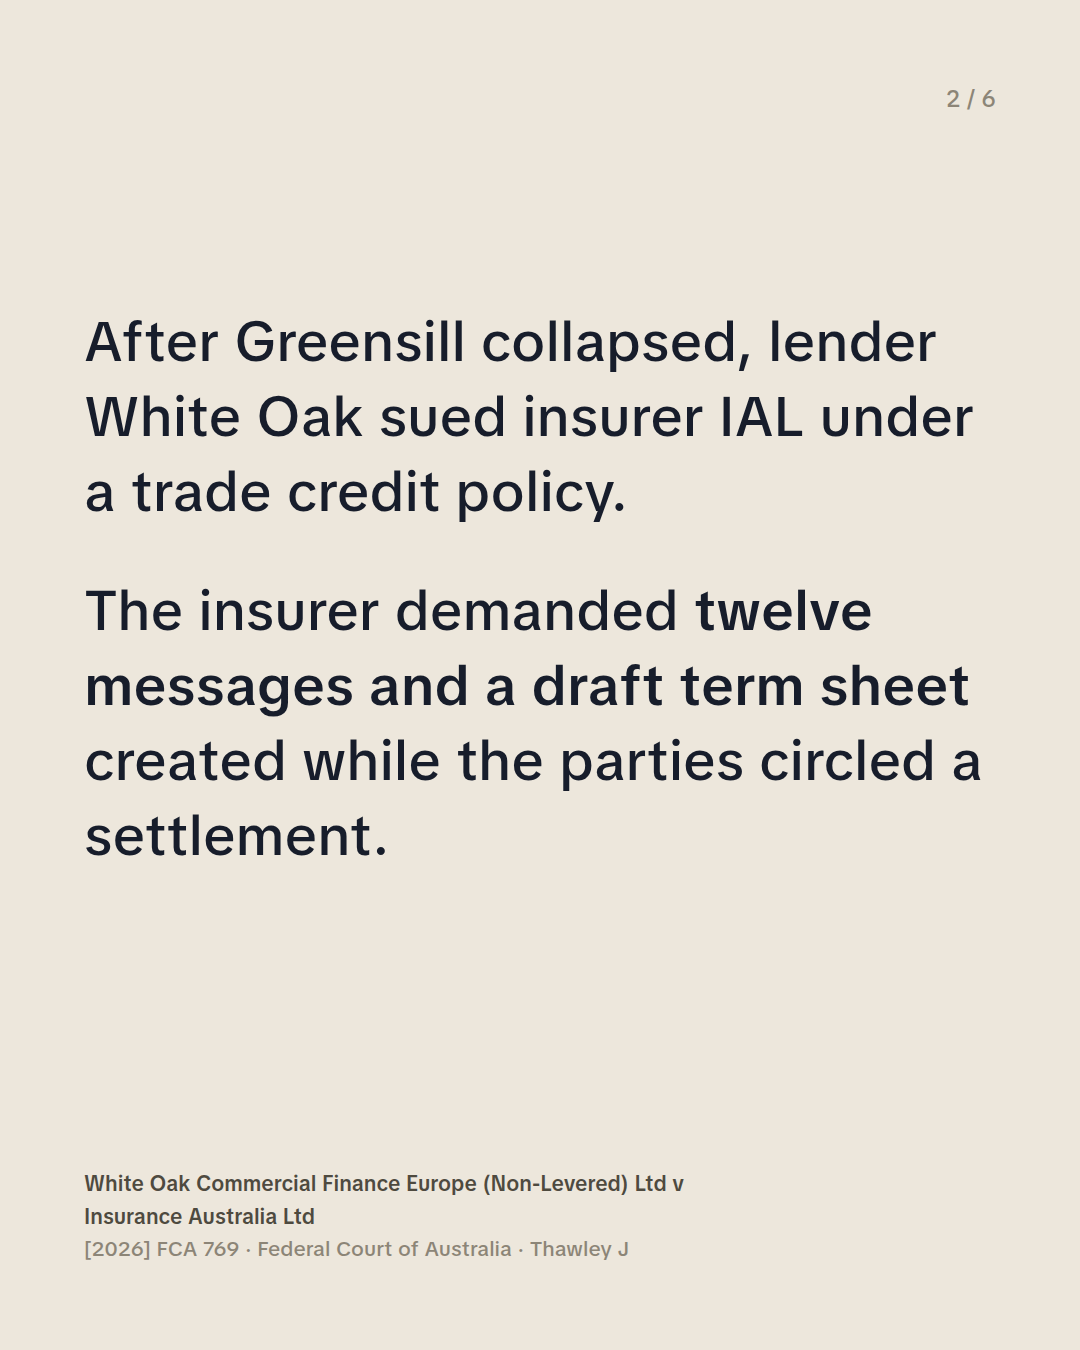
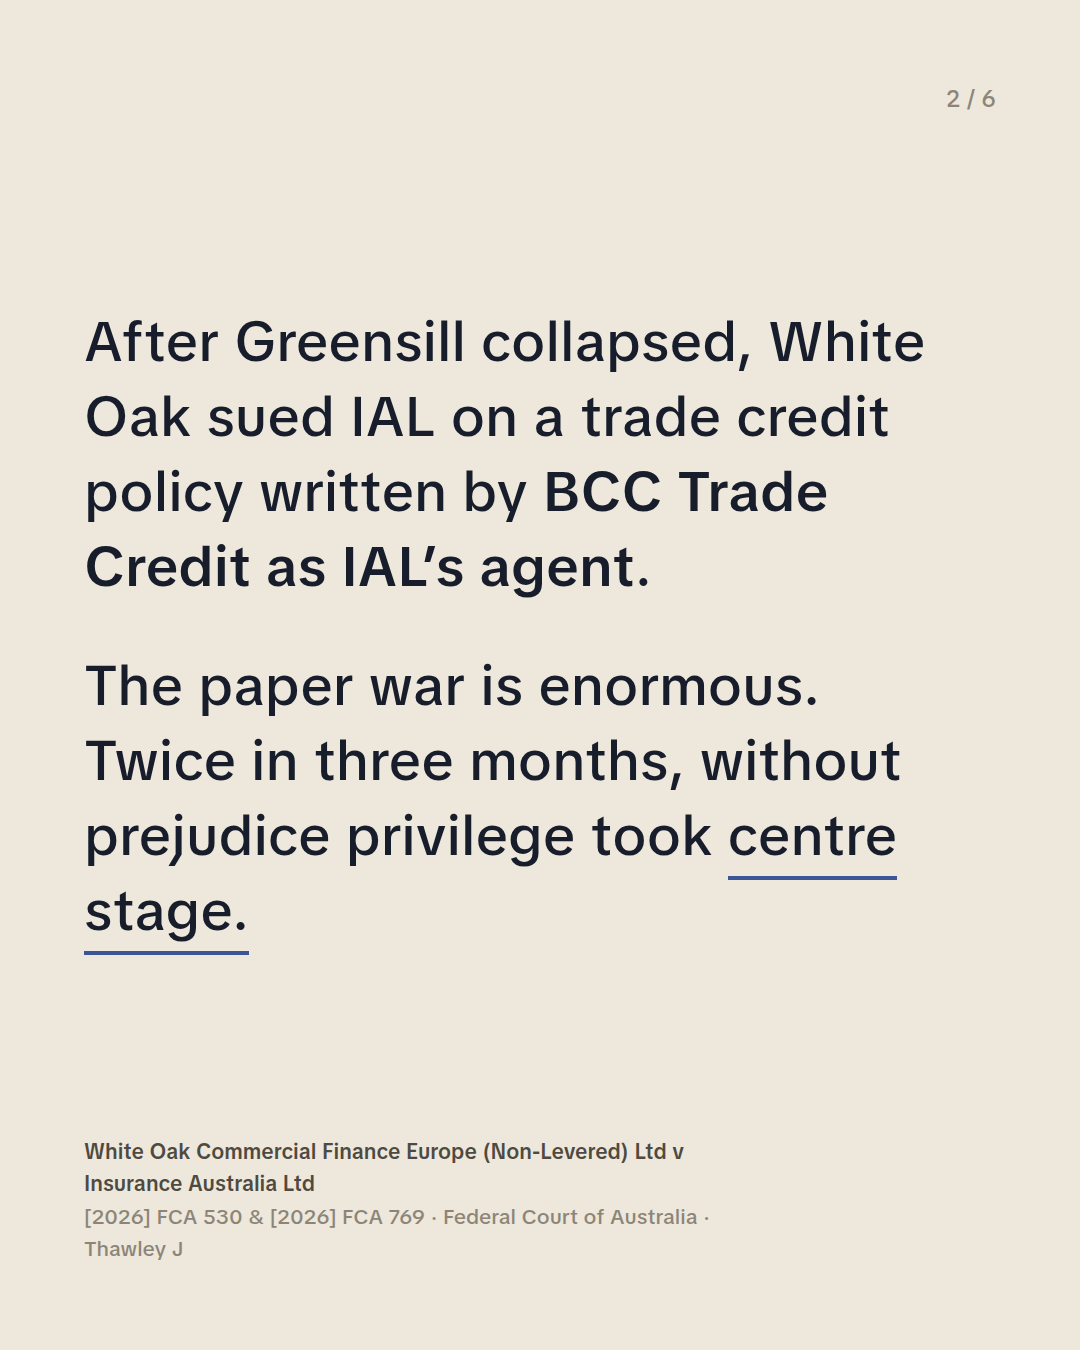
Triple-check corrections: fix White Oak holding attribution across all assets
Verification found the 'general approach / no element of compromise'
holding belongs to White Oak (No 3) [2026] FCA 530 (28 April), not
[2026] FCA 769, which was decided on relevance with privilege left
undecided. Carousel, Day in Court slide, captions, LinkedIn post and
brief all corrected to the two-decision frame. MacInnes and Elvin
details re-verified (breach of confidence claim confirmed; Foot & Thai
context noted in kit).

Claude-Session: https://claude.ai/code/session_01JRjeUUcoRT5GxuTf3inkfN

Changed region(s): [[0.0611, 0.2178, 0.9167, 0.7156], [0.0611, 0.84, 0.6417, 0.9333]]

diff --git a/tools/carousel/build.py b/tools/carousel/build.py
@@ -64,25 +64,27 @@ def slide(slug, kicker, n, statement, cite, size="md", dark=False, sub=None, swi
 K_A = "Daily Court Intelligence &middot; 30.07.26"
 K_B = "Daily Court Intelligence &middot; 30.07.26"
 K_F = "The Big Case File &middot; No. 001"
-CITE_A = '<b>White Oak Commercial Finance Europe (Non-Levered) Ltd v Insurance Australia Ltd</b><br>[2026] FCA 769 &middot; Federal Court of Australia &middot; Thawley J'
+CITE_A = '<b>White Oak Commercial Finance Europe (Non-Levered) Ltd v Insurance Australia Ltd</b><br>[2026] FCA 530 &amp; [2026] FCA 769 &middot; Federal Court of Australia &middot; Thawley J'
+CITE_A1 = '<b>White Oak v Insurance Australia (No 3)</b> &middot; [2026] FCA 530 &middot; 28 April 2026 &middot; Thawley J'
+CITE_A2 = '<b>White Oak v Insurance Australia (Without Prejudice Privilege)</b> &middot; [2026] FCA 769 &middot; Thawley J'
 CITE_B = '<b>Elvin v Fair Work Ombudsman</b> &middot; [2026] FCAFC 92<br>Full Court of the Federal Court &middot; Collier, McDonald &amp; Vandongen JJ'
 CITE_F = '<b>MacInnes v Wilson</b> &middot; Federal Court of Australia &middot; Raper J<br>22 July 2026 &middot; appeal filed'
 
 # ── Set A: White Oak ──
 slide("a1", K_A, 1,
-    'The Federal Court just ruled that labelling a message &ldquo;without prejudice&rdquo; protects&hellip; <span class="u">nothing, by itself.</span>',
+    '&ldquo;Without prejudice&rdquo; is not a <span class="u">magic spell.</span> Two rulings in the Greensill insurance wars just showed why.',
     CITE_A, size="lg", swipe="Swipe &rarr;")
 slide("a2", K_A, 2,
-    '<p>After Greensill collapsed, lender White Oak sued insurer IAL under a trade credit policy.</p><p>The insurer demanded <strong>twelve messages and a draft term sheet</strong> created while the parties circled a settlement.</p>',
+    '<p>After Greensill collapsed, White Oak sued IAL on a trade credit policy written by <strong>BCC Trade Credit as IAL&rsquo;s agent</strong>.</p><p>The paper war is enormous. Twice in three months, without prejudice privilege took <span class="u">centre stage.</span></p>',
     CITE_A)
 slide("a3", K_A, 3,
-    '<p>Settlement negotiations are privileged.</p><p>But are messages that merely <em>talk about</em> a dispute, with <span class="u">no offer and no admissions</span>, negotiations at all?</p>'.replace('<em>','<strong>').replace('</em>','</strong>'),
-    CITE_A)
+    '<p>Round one, April. White Oak challenged privilege claims by <strong>BCC and the Tokio Marine parties</strong> over settlement-talk documents.</p><p>Held: messages canvassing a &ldquo;general approach&rdquo;, with <span class="u">no element of compromise</span>, are not negotiations. No privilege.</p>',
+    CITE_A1)
 slide("a4", K_A, 4,
-    '<p>No, said the Court.</p><p>A &ldquo;general approach&rdquo; to a dispute, with <span class="u">no element of compromise</span>, is not a negotiation. No privilege. And irrelevant documents stay put anyway.</p>',
-    CITE_A)
+    '<p>Round two, published this week. IAL demanded twelve messages and a draft term sheet White Oak created while negotiating a resolution.</p><p>Held: <span class="u">not directly relevant.</span> Production refused. The privilege question never needed answering.</p>',
+    CITE_A2)
 slide("a5", K_A, 5,
-    '<p>Substantiate privilege document by document.</p><p>Argue relevance first.</p><p>And make negotiations <span class="u">look like negotiations.</span></p>',
+    '<p>Substantiate privilege document by document, with evidence.</p><p>Argue relevance first. It can end the fight early.</p><p>And make negotiations <span class="u">look like negotiations.</span></p>',
     CITE_A)
 slide("a6", K_A, 6,
     'Be honest: have you ever written &ldquo;without prejudice&rdquo; <span class="u">just in case?</span>',

diff --git a/tools/carousel/dayincourt.py b/tools/carousel/dayincourt.py
@@ -55,8 +55,8 @@ write("docket-1", f"""<div class="page">
 
 cases = [
  ("White Oak <span>v</span> Insurance Australia",
-  '<p>The Greensill coverage war, on foot since 2021. White Oak claims on a trade credit policy written by <b>BCC Trade Credit as agent for IAL</b>.</p><p>This round: IAL demanded twelve messages and a draft term sheet created while the parties circled a settlement. White Oak claimed without prejudice privilege.</p><p>Held: the messages canvassed only a &ldquo;general approach&rdquo;. No offer, no admissions, <b>no element of compromise</b>. Not a negotiation, no privilege. The rest failed on relevance.</p>',
-  '<b>Why it matters:</b> privilege is proven document by document. Labels do nothing.',
+  '<p>The Greensill coverage war, on foot since 2021. White Oak claims on a trade credit policy written by <b>BCC Trade Credit as agent for IAL</b>.</p><p>This round: IAL demanded twelve messages and a draft term sheet White Oak created while negotiating a possible resolution. White Oak said: without prejudice.</p><p>Held: the documents were <b>not directly relevant</b>. Production refused. The privilege question never needed answering.</p>',
+  '<b>Why it matters:</b> relevance is the first gate. And in April&rsquo;s round, [2026] FCA 530, labels without real compromise failed too.',
   '<b>[2026] FCA 769</b> &middot; Federal Court of Australia &middot; Thawley J'),
  ("Elvin <span>v</span> Fair Work Ombudsman",
   '<p>The FWO won underpayment findings over massage therapists classified under the <b>health professionals award</b>, plus accessorial findings against an individual personally involved.</p><p>On appeal: was the classification right? Were <b>Browne v Dunn</b> and <b>Jones v Dunkel</b> fairly applied against a self-represented litigant? And did the employer&rsquo;s DOCA bind the FWO as a &ldquo;creditor&rdquo;?</p><p>Appeal <b>allowed in part</b>. The FWO&rsquo;s cross-appeal dismissed.</p>',

diff --git a/reports/assets/2026-07-30/POSTING-KIT.md b/reports/assets/2026-07-30/POSTING-KIT.md
@@ -10,41 +10,41 @@ Two posts today. Upload the slides in filename order (a1→a6, b1→b6).
 
 "Without prejudice" ≠ invisibility cloak 🪄
 
-The Federal Court just refused privilege over settlement-adjacent messages in the Greensill insurance wars, because talking *about* a dispute isn't the same as negotiating to *end* one.
+Two rulings in the Greensill insurance wars just proved it.
 
-No offer. No admissions. No element of compromise. No privilege.
+April: messages canvassing a "general approach" to a dispute, with no offer and no element of compromise, are not negotiations at all. No privilege. ([2026] FCA 530)
+
+This week: the insurer demanded White Oak's settlement messages and draft term sheet. Production refused, not on privilege, but because the documents weren't relevant. The fight ended at the first gate. ([2026] FCA 769)
 
 Swipe for the breakdown 👉
 
-*White Oak Commercial Finance Europe (Non-Levered) Ltd v Insurance Australia Ltd (Without Prejudice Privilege)* [2026] FCA 769
+*White Oak Commercial Finance Europe (Non-Levered) Ltd v Insurance Australia Ltd*, [2026] FCA 530 and [2026] FCA 769
 
 General information only, not legal advice.
 
 #auslaw #litigation #insurancelaw #commerciallaw #lawstudent #legalpractice #lawyersofinstagram #melbournelawyer
 
-**Alt text:** Dark navy and gold carousel slides summarising the Federal Court's without prejudice privilege ruling in White Oak v Insurance Australia [2026] FCA 769.
+**Alt text:** Minimal cream and navy carousel summarising the Federal Court's without prejudice privilege rulings in the White Oak v Insurance Australia litigation, [2026] FCA 530 and [2026] FCA 769.
 
 ---
 
 ## POST 1, LinkedIn (text post; optionally attach a1.png as the image)
 
-Everyone's favourite magic words just failed in the Federal Court.
+Everyone's favourite magic words are having a rough year in the Federal Court.
 
-In the ongoing Greensill insurance litigation, White Oak Commercial Finance is pursuing Insurance Australia Ltd for losses under a trade credit policy written through BCC Trade Credit. This week's instalment, White Oak Commercial Finance Europe (Non-Levered) Ltd v Insurance Australia Ltd (Without Prejudice Privilege) [2026] FCA 769, wasn't about coverage. It was about documents.
+In the Greensill insurance litigation, White Oak Commercial Finance is pursuing Insurance Australia Ltd for losses under a trade credit policy written through BCC Trade Credit as IAL's agent. The document battles keep producing privilege rulings, and two of them, months apart, make a matched pair every litigator should read.
 
-IAL wanted production of material White Oak said was protected by without prejudice privilege, including a batch of messages and a draft term sheet generated while settlement was in the air.
+Round one: White Oak Commercial Finance Europe (Non-Levered) Ltd v Insurance Australia Ltd (No 3) [2026] FCA 530 (Thawley J, 28 April 2026). White Oak challenged without prejudice privilege claims asserted by BCC and the Tokio Marine parties over settlement-talk documents. The Court held a group of messages did not attract privilege: they canvassed only a general approach the parties might take, with no reference to litigation, no admissions and no observable element of compromise. Talking about a dispute is not negotiating to end it.
 
-Justice Thawley's approach is a masterclass in first principles. The privilege exists to let parties negotiate freely. So the Court asked: were these communications actually negotiations? For a group of the messages, the answer was no, they addressed only a general approach the parties might take to the dispute. No reference to litigation. No admissions. No observable element of compromise. No privilege.
+Round two: White Oak v Insurance Australia Ltd (Without Prejudice Privilege) [2026] FCA 769, published this week. This time IAL sought production of twelve messages and a draft term sheet White Oak created while negotiating a possible resolution. The Court refused production on a simpler basis: the documents were not directly relevant to any issue in the proceeding, so the privilege question never needed answering.
 
-Just as importantly, other documents never got to the privilege question at all, they weren't directly relevant to any issue in the proceeding, so production was refused on that simpler basis.
-
-Three things practitioners should take from this:
+Three takeaways:
 
 1. Without prejudice privilege follows substance, not headers. A label is not a shield.
 2. The asserting party must substantiate the claim with evidence, document by document.
-3. Relevance is the first gate. If you can win on relevance, you may never need to fight about privilege.
+3. Relevance is the first gate. Win there and the privilege fight never starts.
 
-In a market still processing the Greensill fallout, expect more of these interlocutory battles, and expect courts to keep reading the actual messages rather than deferring to the labels on them.
+Expect more of these skirmishes as the Greensill fallout grinds on, and expect courts to keep reading the actual messages rather than deferring to the labels on them.
 
 What do you think?
 
@@ -66,7 +66,7 @@ General information only, not legal advice.
 
 #auslaw #employmentlaw #fairwork #smallbusiness #hrcompliance #insolvency #lawstudent #lawyersofinstagram
 
-**Alt text:** Dark navy and gold carousel slides summarising the Full Federal Court's decision in Elvin v Fair Work Ombudsman [2026] FCAFC 92 on underpayments and deeds of company arrangement.
+**Alt text:** Minimal cream and navy carousel summarising the Full Federal Court's decision in Elvin v Fair Work Ombudsman [2026] FCAFC 92 on underpayments and deeds of company arrangement.
 
 ---
 
@@ -96,4 +96,5 @@ What do you think?
 
 - **Best order:** Post 1 (White Oak) in the morning, Post 2 (Elvin) early afternoon, or hold Post 2 for tomorrow if you'd rather post once a day.
 - **Slides are 1080×1350 (4:5)**, Instagram's preferred carousel format; also works attached to LinkedIn.
+- **Elvin context:** the underlying litigation is the FWO's long-running Foot & Thai Massage (Canberra) matter involving Colin Elvin, which included findings of serious exploitation of migrant workers. Keep the tone factual; it is a serious case.
 - **Verify before posting:** case details were compiled from secondary sources (court sites were unreachable from the research environment), a 2-minute skim of each judgment's catchwords on AustLII is a sensible pre-publication check.

diff --git a/reports/2026-07-30-daily-court-intelligence.md b/reports/2026-07-30-daily-court-intelligence.md
@@ -22,6 +22,9 @@ What that means for today's edition:
 
 # 📌 JUDGMENT 1
 
+> **CORRECTION (30 July 2026, on verification):** The "no negotiation, no privilege" reasoning described below belongs to the earlier decision in the same proceeding, *White Oak v Insurance Australia (No 3)* [2026] FCA 530 (Thawley J, 28 April 2026), where White Oak defeated without prejudice privilege claims asserted by BCC and the Tokio Marine parties. In *[2026] FCA 769* itself, the Court refused IAL's production application because the twelve messages and draft term sheet were **not directly relevant**, and expressly found it unnecessary to decide the privilege question. The carousel and captions in `reports/assets/2026-07-30/` have been corrected to reflect both decisions accurately; the original text below is retained for the record.
+
+
 # White Oak v Insurance Australia: The "Without Prejudice" Label That Didn't Stick
 
 ## 1. Quick Summary
